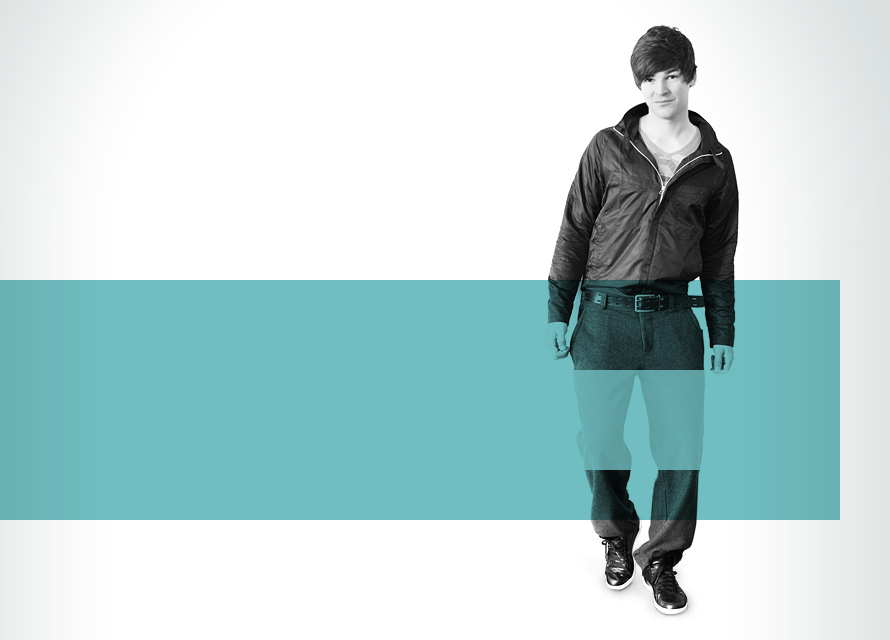
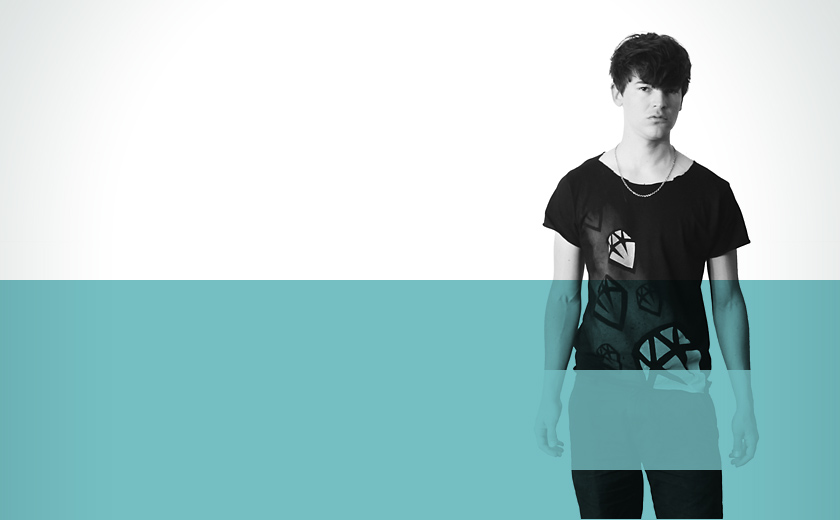
removed euruko on homepage; back to black and white photo

diff --git a/views/stylesheets/views/_home.sass b/views/stylesheets/views/_home.sass
@@ -1,16 +1,16 @@
 html.index
-  background: image-url("homepage-euruko.jpg")
+  background: image-url("homepage.jpg")
 
 #welcome
-  background: image-url("homepage-euruko.jpg") 0 -280px no-repeat
+  background: image-url("homepage.jpg") 0 -280px no-repeat
   color: white
   height: 340px
   @include section
   h1
-    background: $blue image-url("homepage-euruko.jpg") 0 -280px
+    background: $blue image-url("homepage.jpg") 0 -280px
     padding: 60px 0 0 60px
   p
-    background: $blue image-url("homepage-euruko.jpg") 0 -380px
+    background: $blue image-url("homepage.jpg") 0 -380px
     padding: 0 0 60px 60px
   &:before,
   #welcome-before
@@ -22,7 +22,7 @@ html.index
     position: absolute
     width: 380px
     z-index: 1111
-    background: image-url("homepage-euruko.jpg") -510px 0 no-repeat
+    background: image-url("homepage.jpg") -510px 0 no-repeat
 
 #blog
   $p-height: 40px
